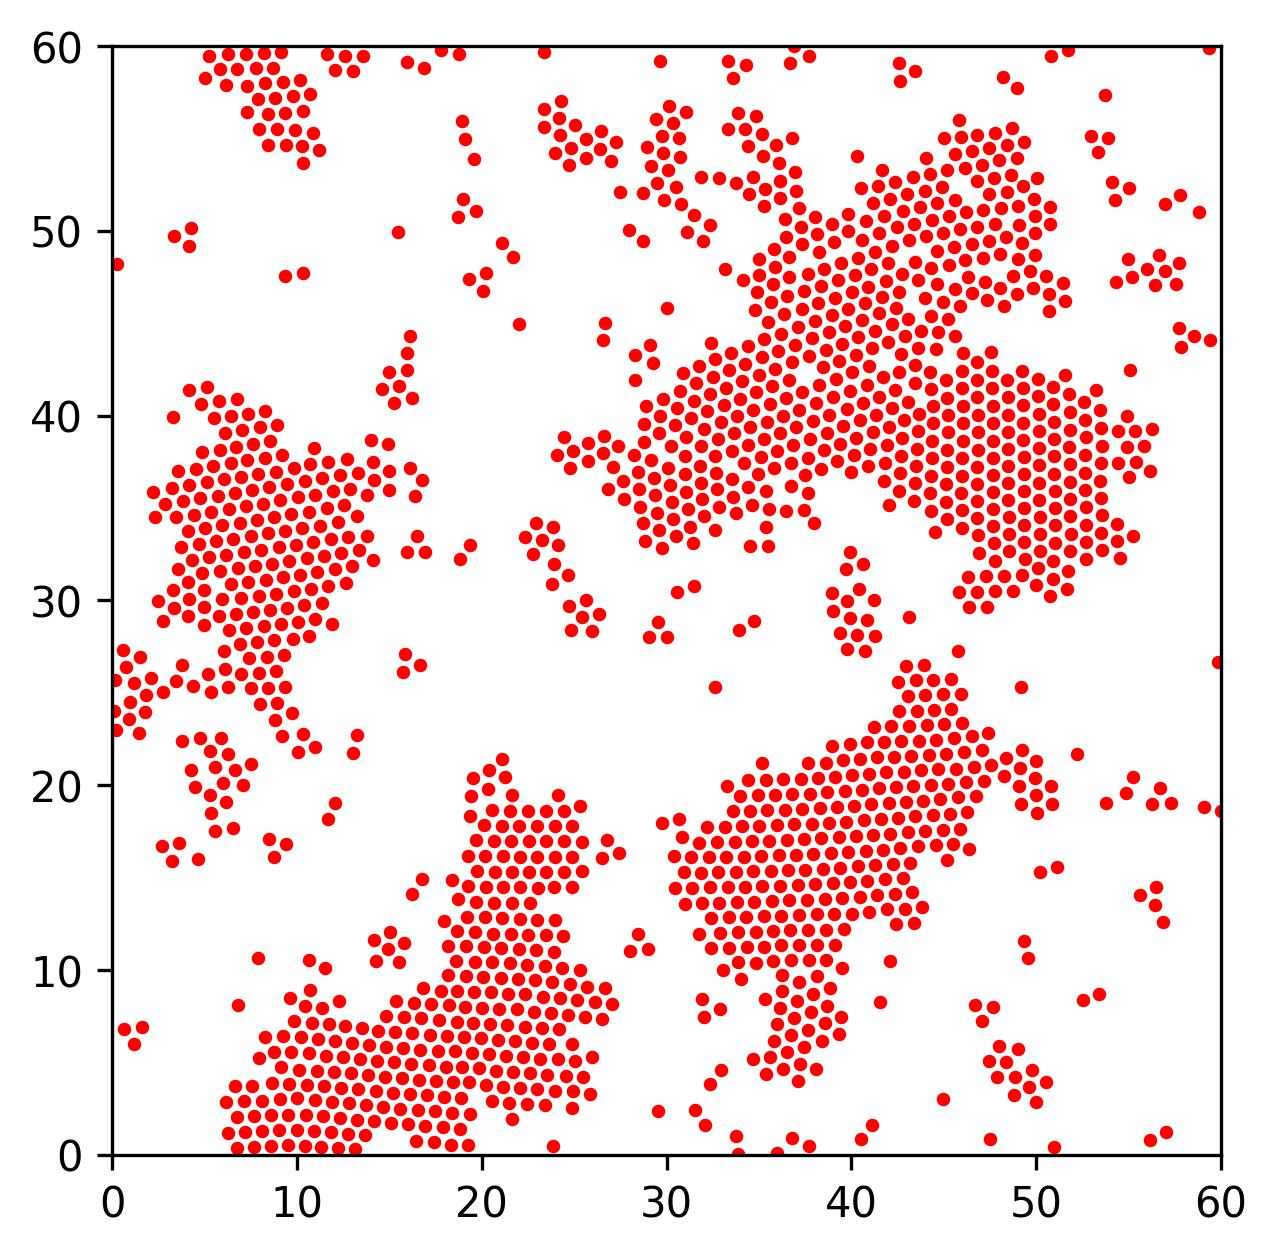
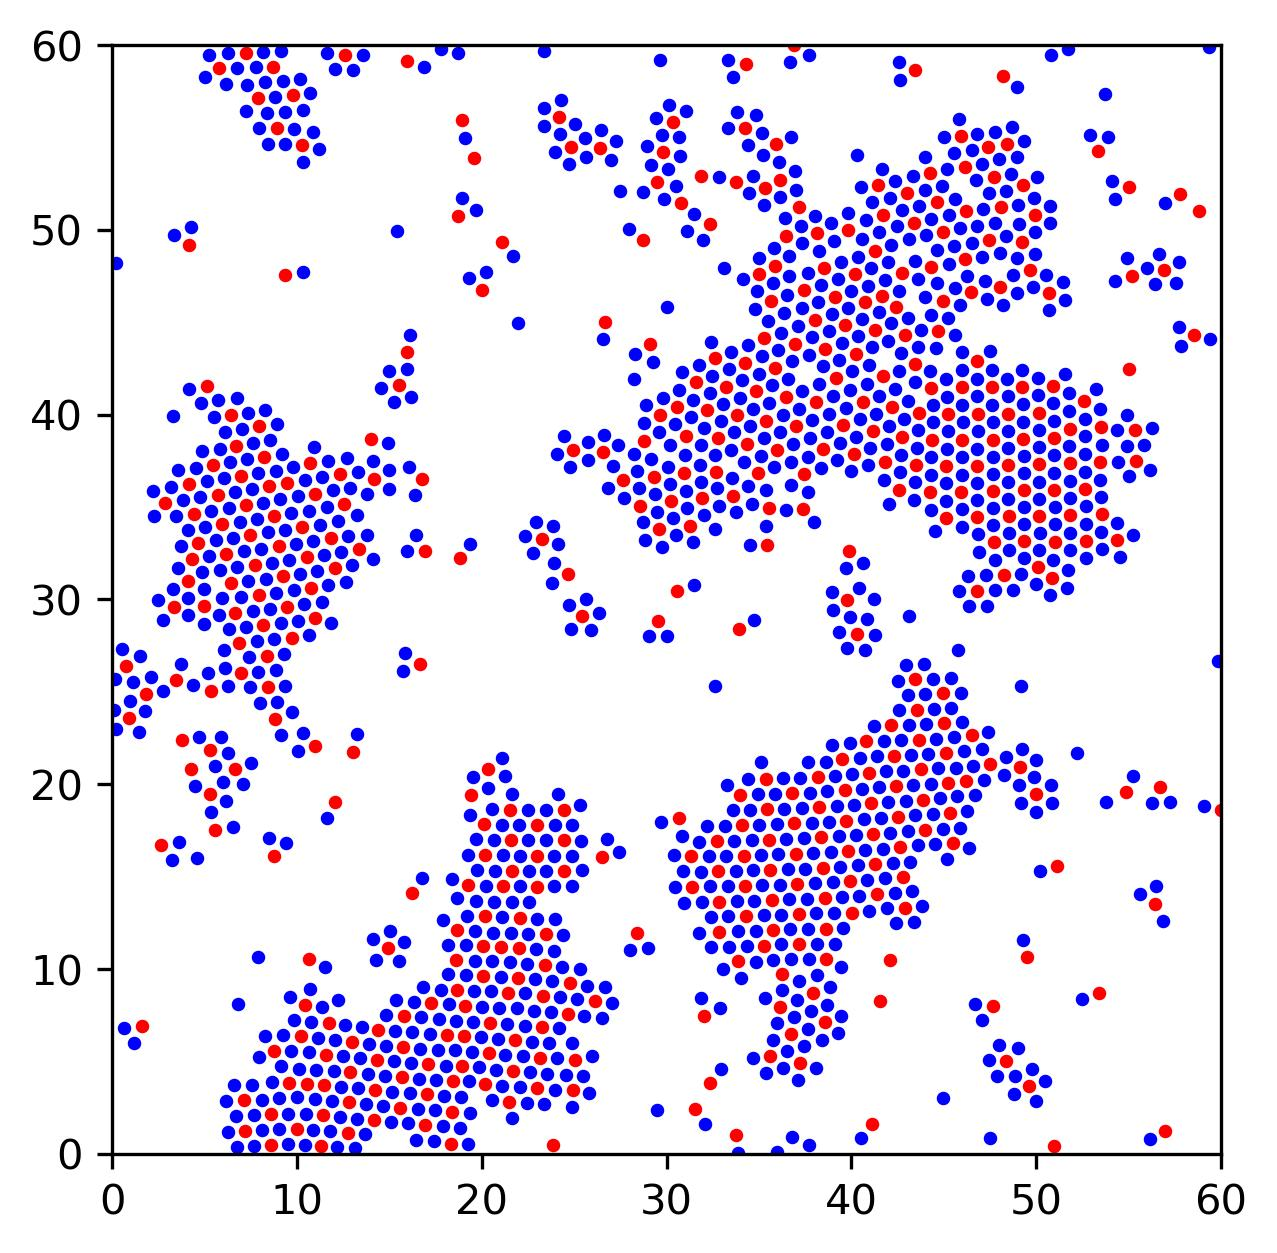
resolve some bug

diff --git a/tools.py b/tools.py
@@ -188,9 +188,14 @@ if __name__ == "__main__":
     data=readFile("./conf_200.dat")
     x=data[:,0]
     y=data[:,1]
-    plotParticles(x,y,60,60,"./figure.jpg")
+    x1=x[:456]
+    y1=y[:456]
+    x2=x[456:]
+    y2=y[456:]
+    plotParticles(x1,y1,60,60,"./figure.jpg",x1=x2,y1=y2)
     print(distancePBC(1,9,1,9,10,10))
     DBSCANPeriodic(data,60,60,3,20)
     phi(data[0:456],60,60,1.2,"./phi6.png")
     print(readParameter("conf-data/test.dat",["python","rust"]))
     makeVideo("./conf-data","conf_",".dat",60,60,plotStep=10,particleTypeMode=456)
+
